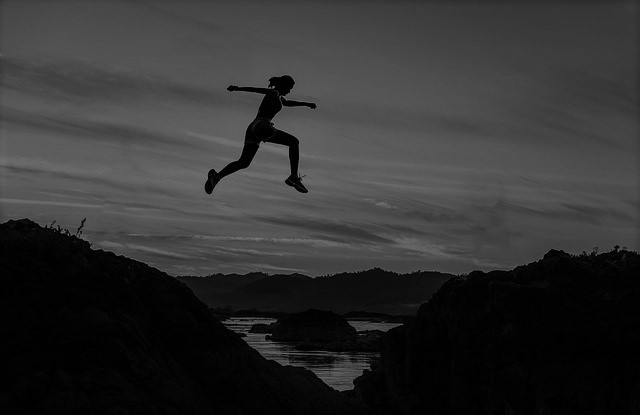
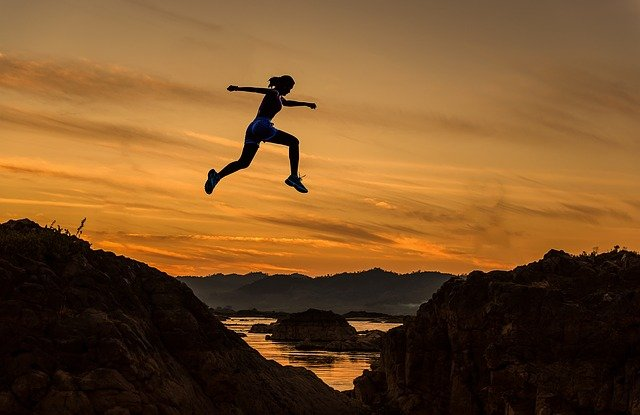
Dank color idea

diff --git a/style.css b/style.css
@@ -519,18 +519,22 @@
 
 .services__card:nth-child(1) {
     background-image: url(custom.jpg);
+    -webkit-filter: grayscale(100%);
 }
 
 .services__card:nth-child(2) {
     background-image: url(ready.jpg);
+    -webkit-filter: grayscale(100%);
 }
 
 .services__card:nth-child(3) {
     background-image: url(experts.jpg);
+    -webkit-filter: grayscale(100%);
 }
 
 .services__card:nth-child(4) {
     background-image: url(lead.jpg);
+    -webkit-filter: grayscale(100%);
 }
 
 .services__card h2 {
@@ -568,6 +572,7 @@
     transform: scale(1.075);
     transition: 0.3s ease-in;
     cursor: pointer;
+    -webkit-filter: none;
 }
 
 @media screen and (max-width: 1300px) {
